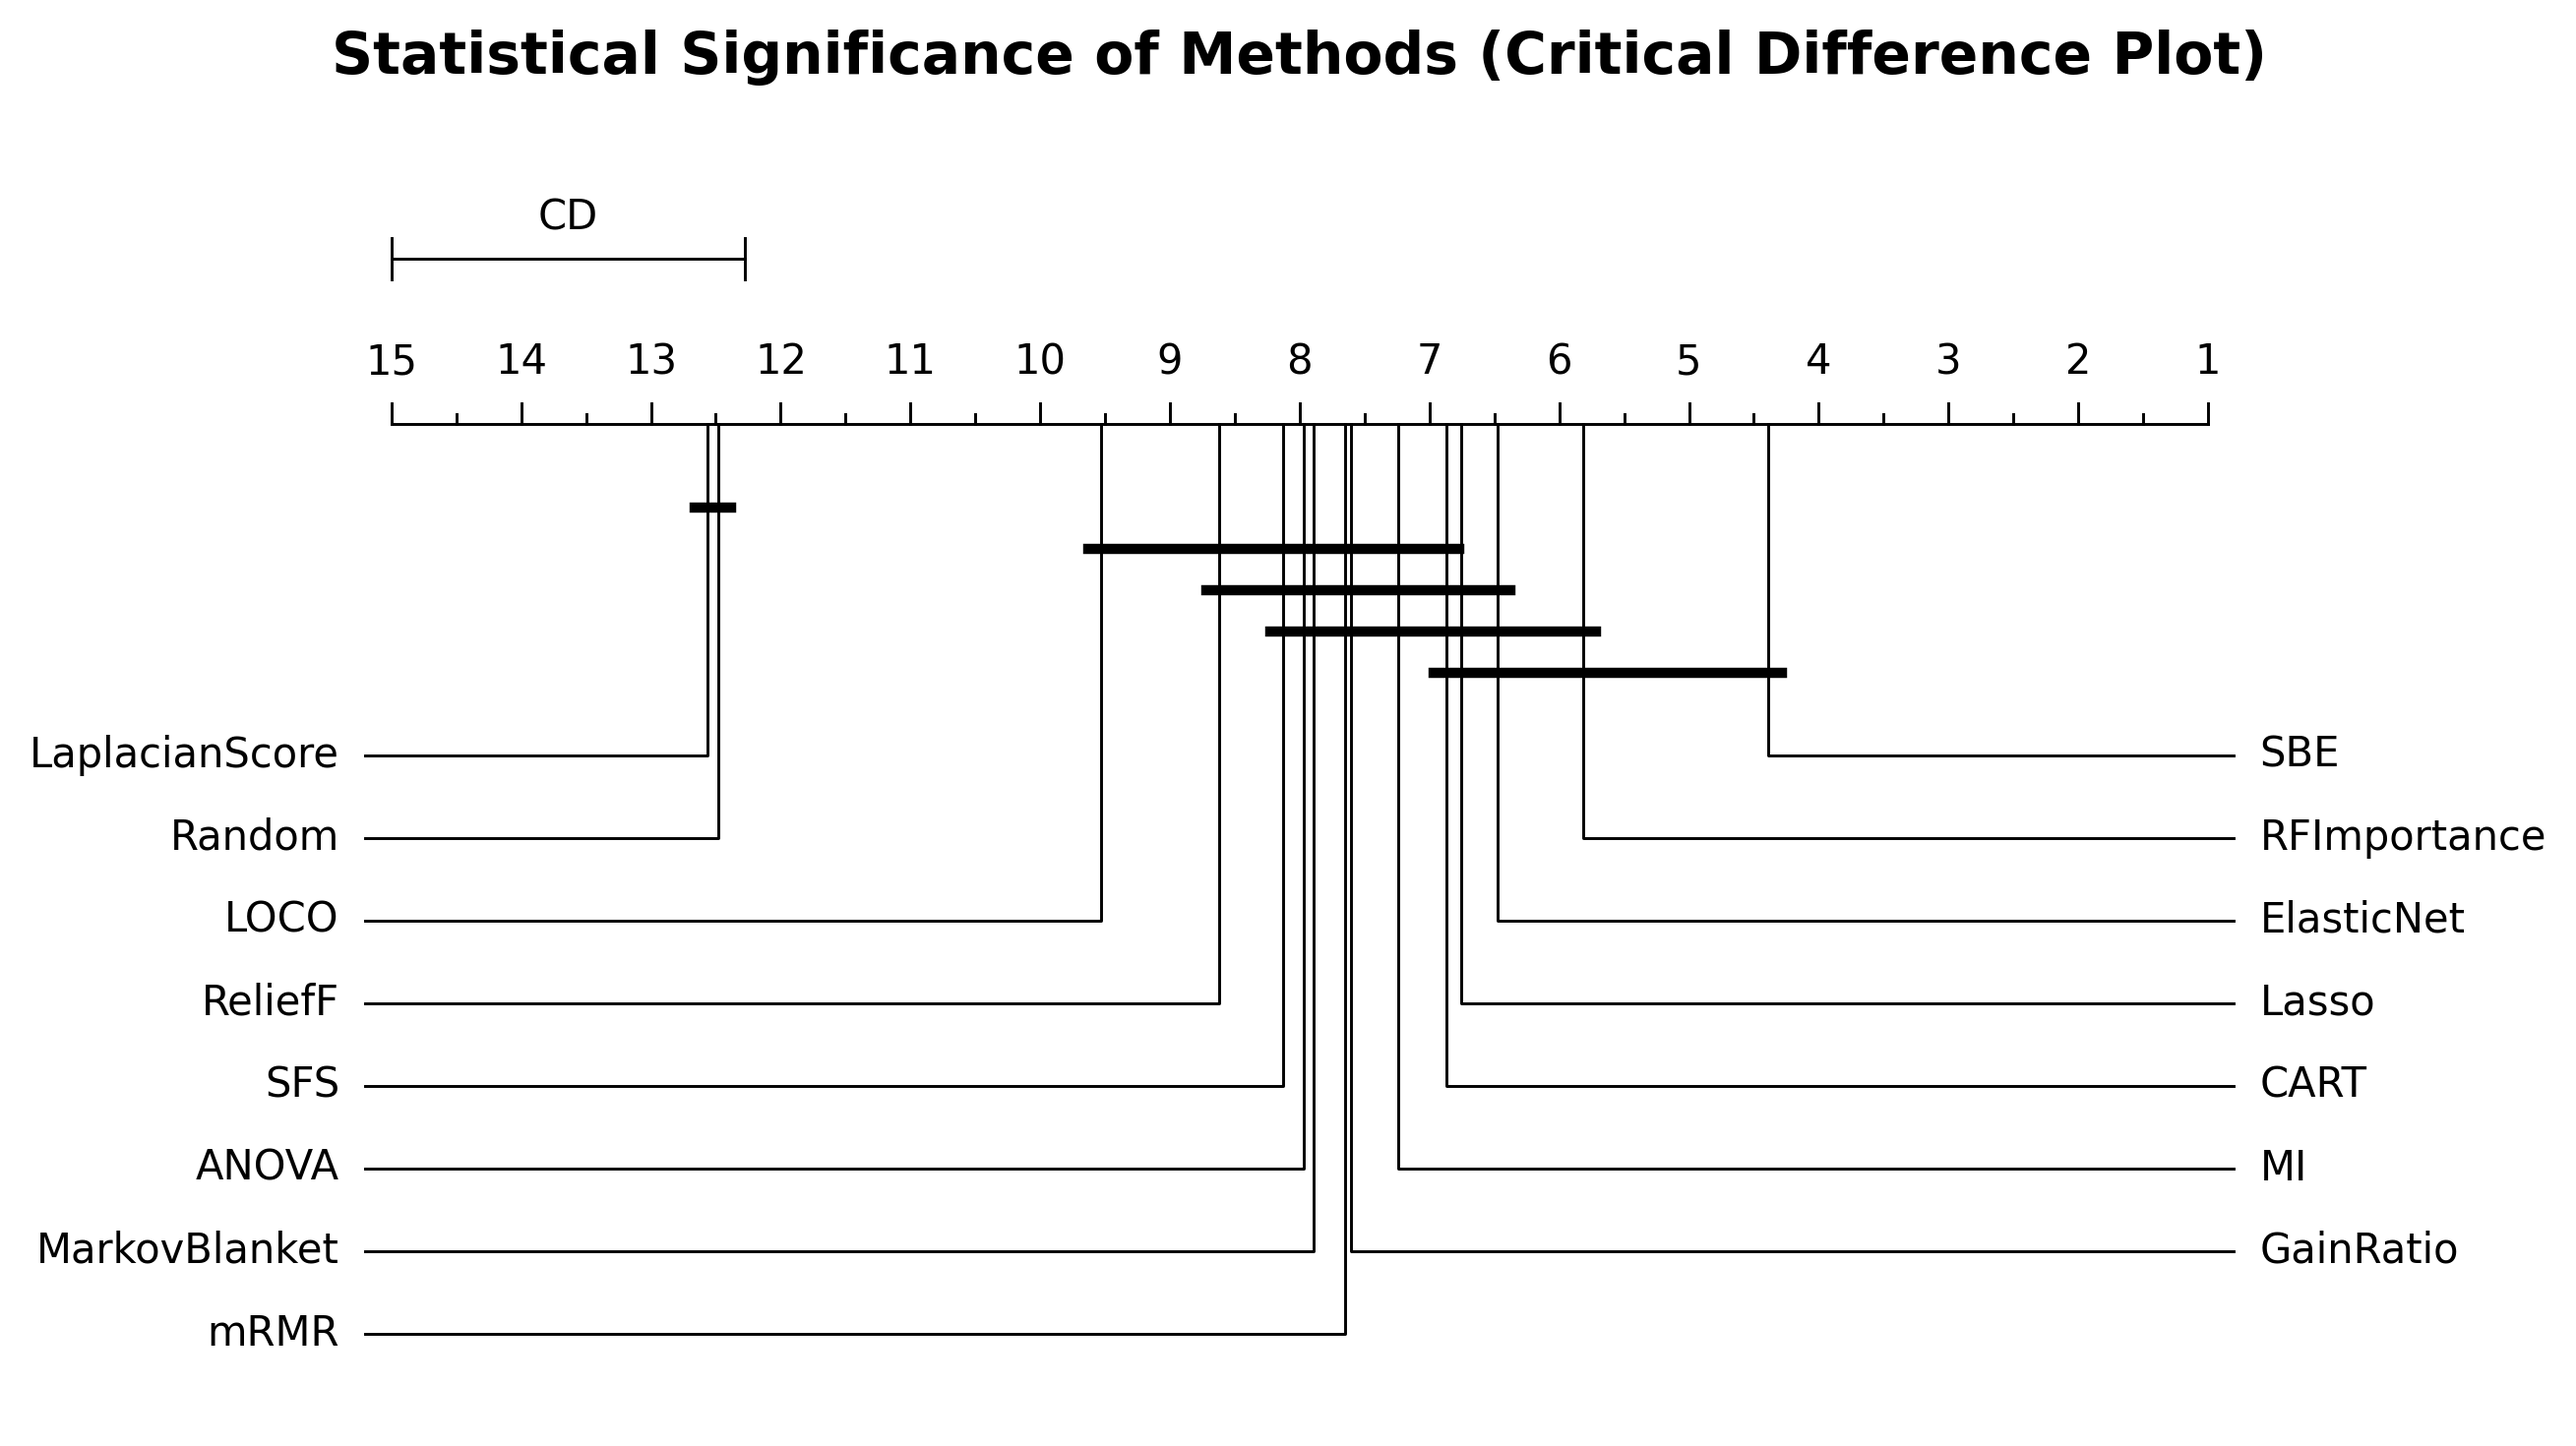
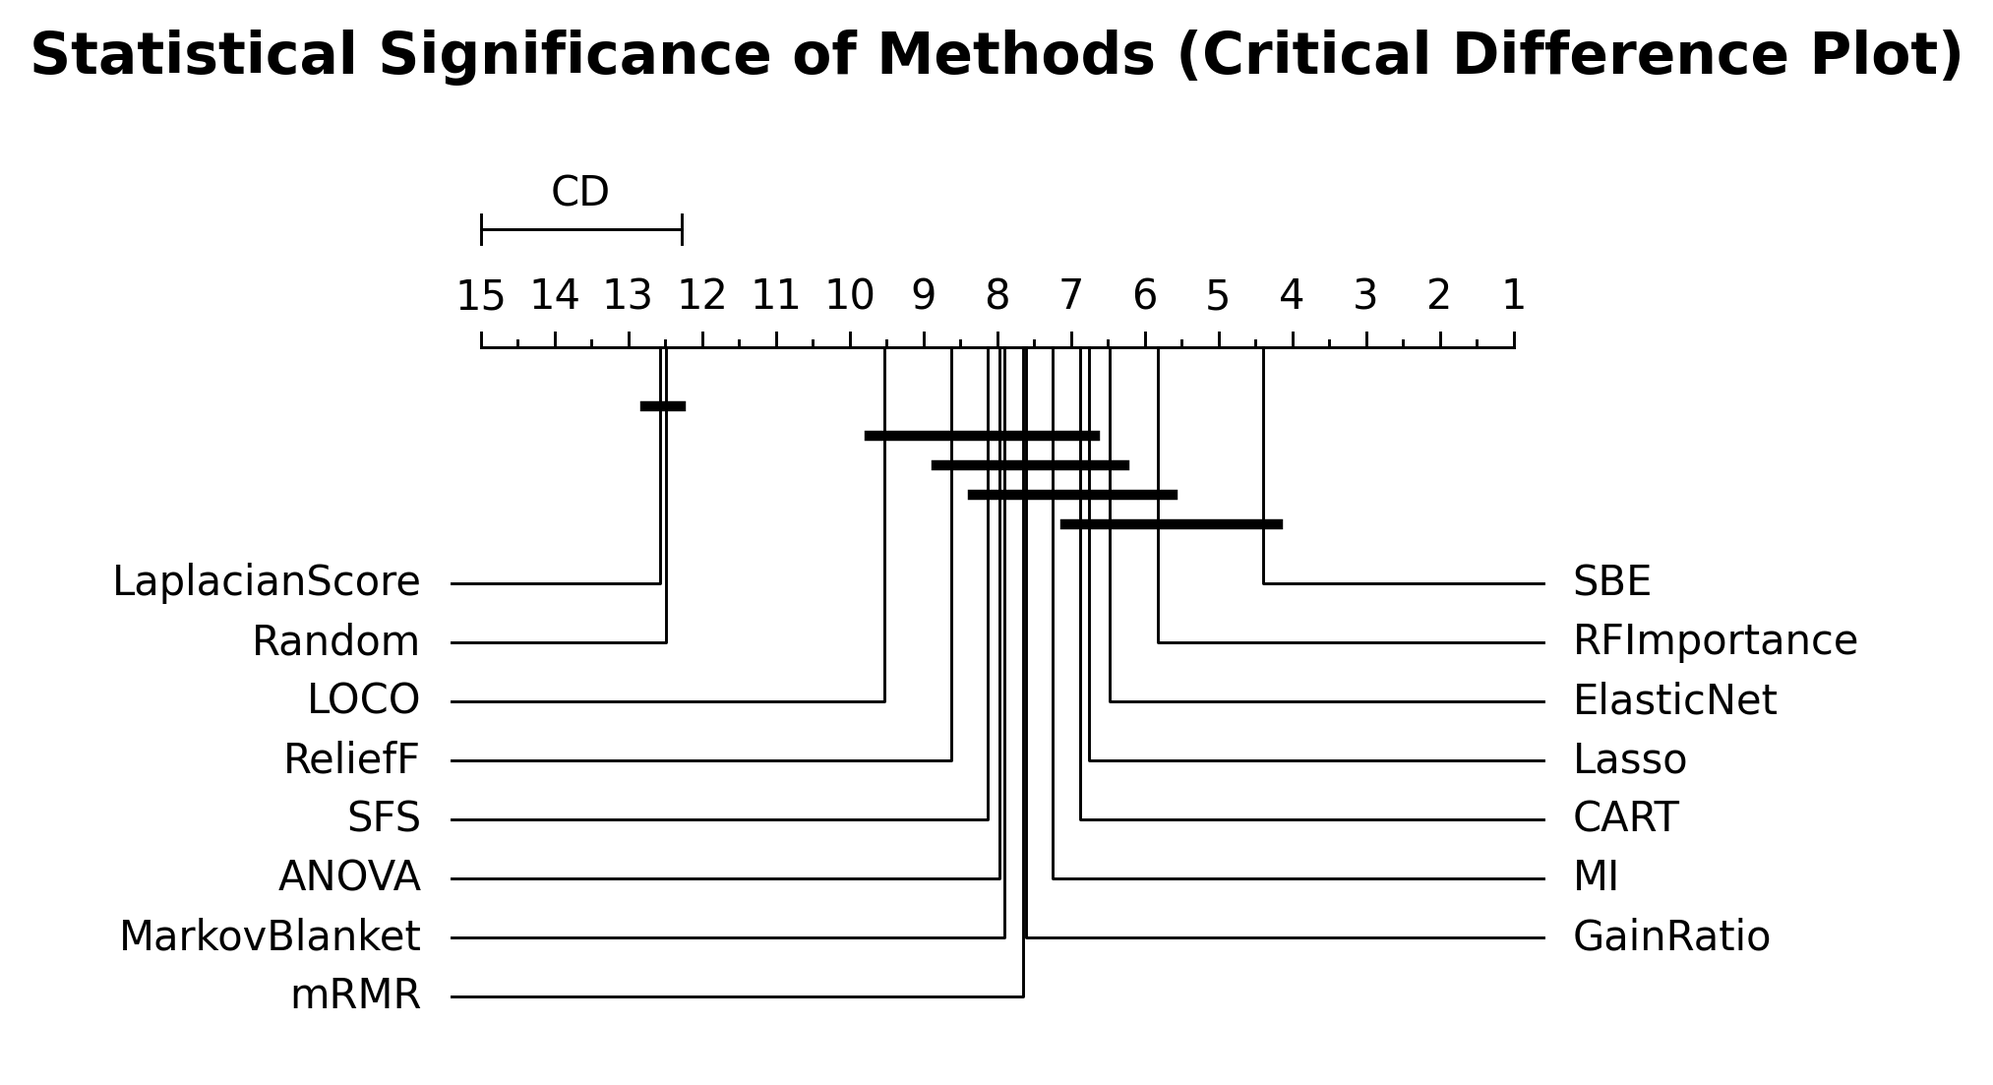
maint: make plot smaller

diff --git a/plotting_code/performance/relative_performance_v2.py b/plotting_code/performance/relative_performance_v2.py
@@ -61,29 +61,24 @@ def plot_autorank(df):
     data = prepare_data_for_autorank(df)
 
     # 2. Run the autorank statistical analysis
-    # We use order="ascending" because we manipulated the data so lower is always better
     result = autorank(data, alpha=0.05, verbose=False, order='ascending')
 
     # Optional: Print the formal text report generated by Autorank
     create_report(result)
 
     # 3. Create the Critical Difference (CD) Plot
-    # FIX: Use a compact fixed height (e.g., 4 or 5) rather than a dynamically large one.
-    # The width (e.g., 9) gives the horizontal lines room to breathe without stretching vertically.
-    fig, ax = plt.subplots(figsize=(9, 5))
+    # FIX: Drastically reduce the width to 5.5 to make it horizontally compact.
+    ax = plot_stats(result, ax=None, width=5.5)
 
-    # FIX: Explicitly pass the 'width' parameter to plot_stats.
-    # Autorank uses this to calculate the horizontal scale and text spacing.
-    plot_stats(result, ax=ax, width=9)
+    # Grab the figure that autorank just created
+    fig = ax.figure
 
+    # Add title and adjust layout
     ax.set_title(PLOT_TITLE, pad=20, fontsize=14, weight='bold')
 
-    # FIX: Ensure tight layout doesn't override our compact height
-    plt.tight_layout()
-
     out = OUTPUT_DIR / PLOT_NAME
-    plt.savefig(out, dpi=300, bbox_inches="tight")
-    plt.close()
+    fig.savefig(out, dpi=300, bbox_inches="tight")
+    plt.close(fig)
 
     print(f"✅ Autorank CD plot saved to {out}")
 
